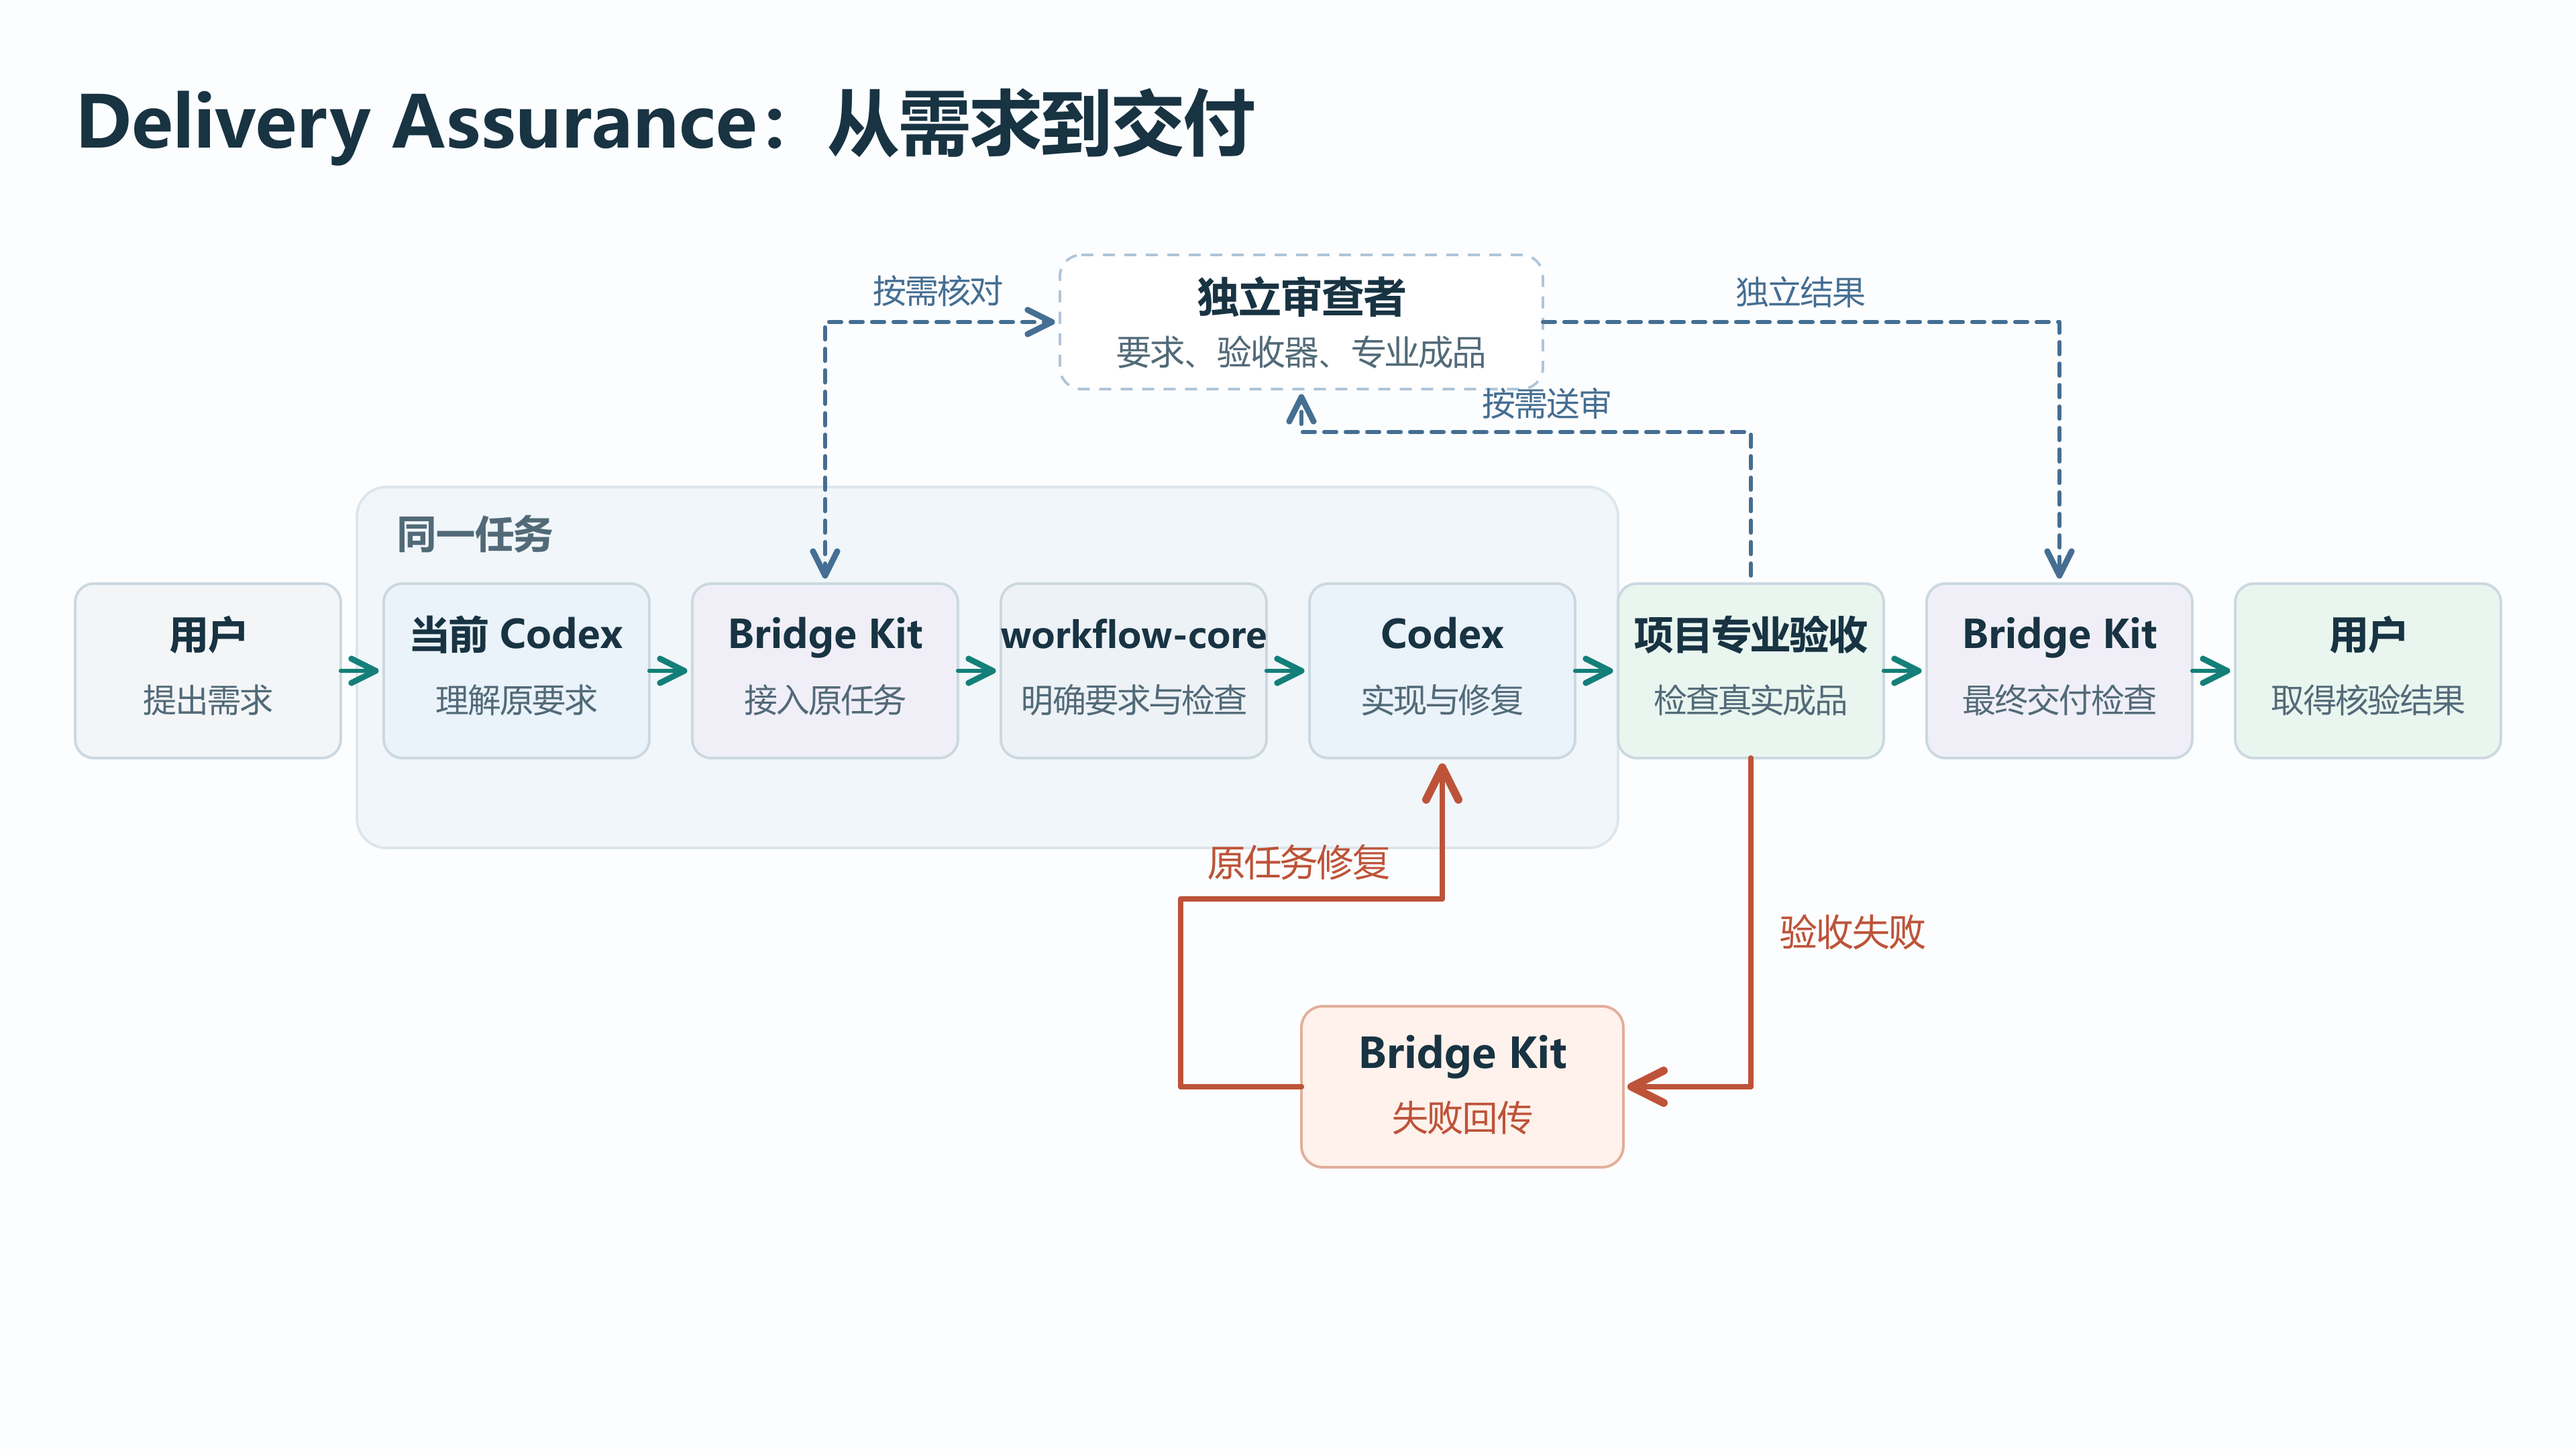
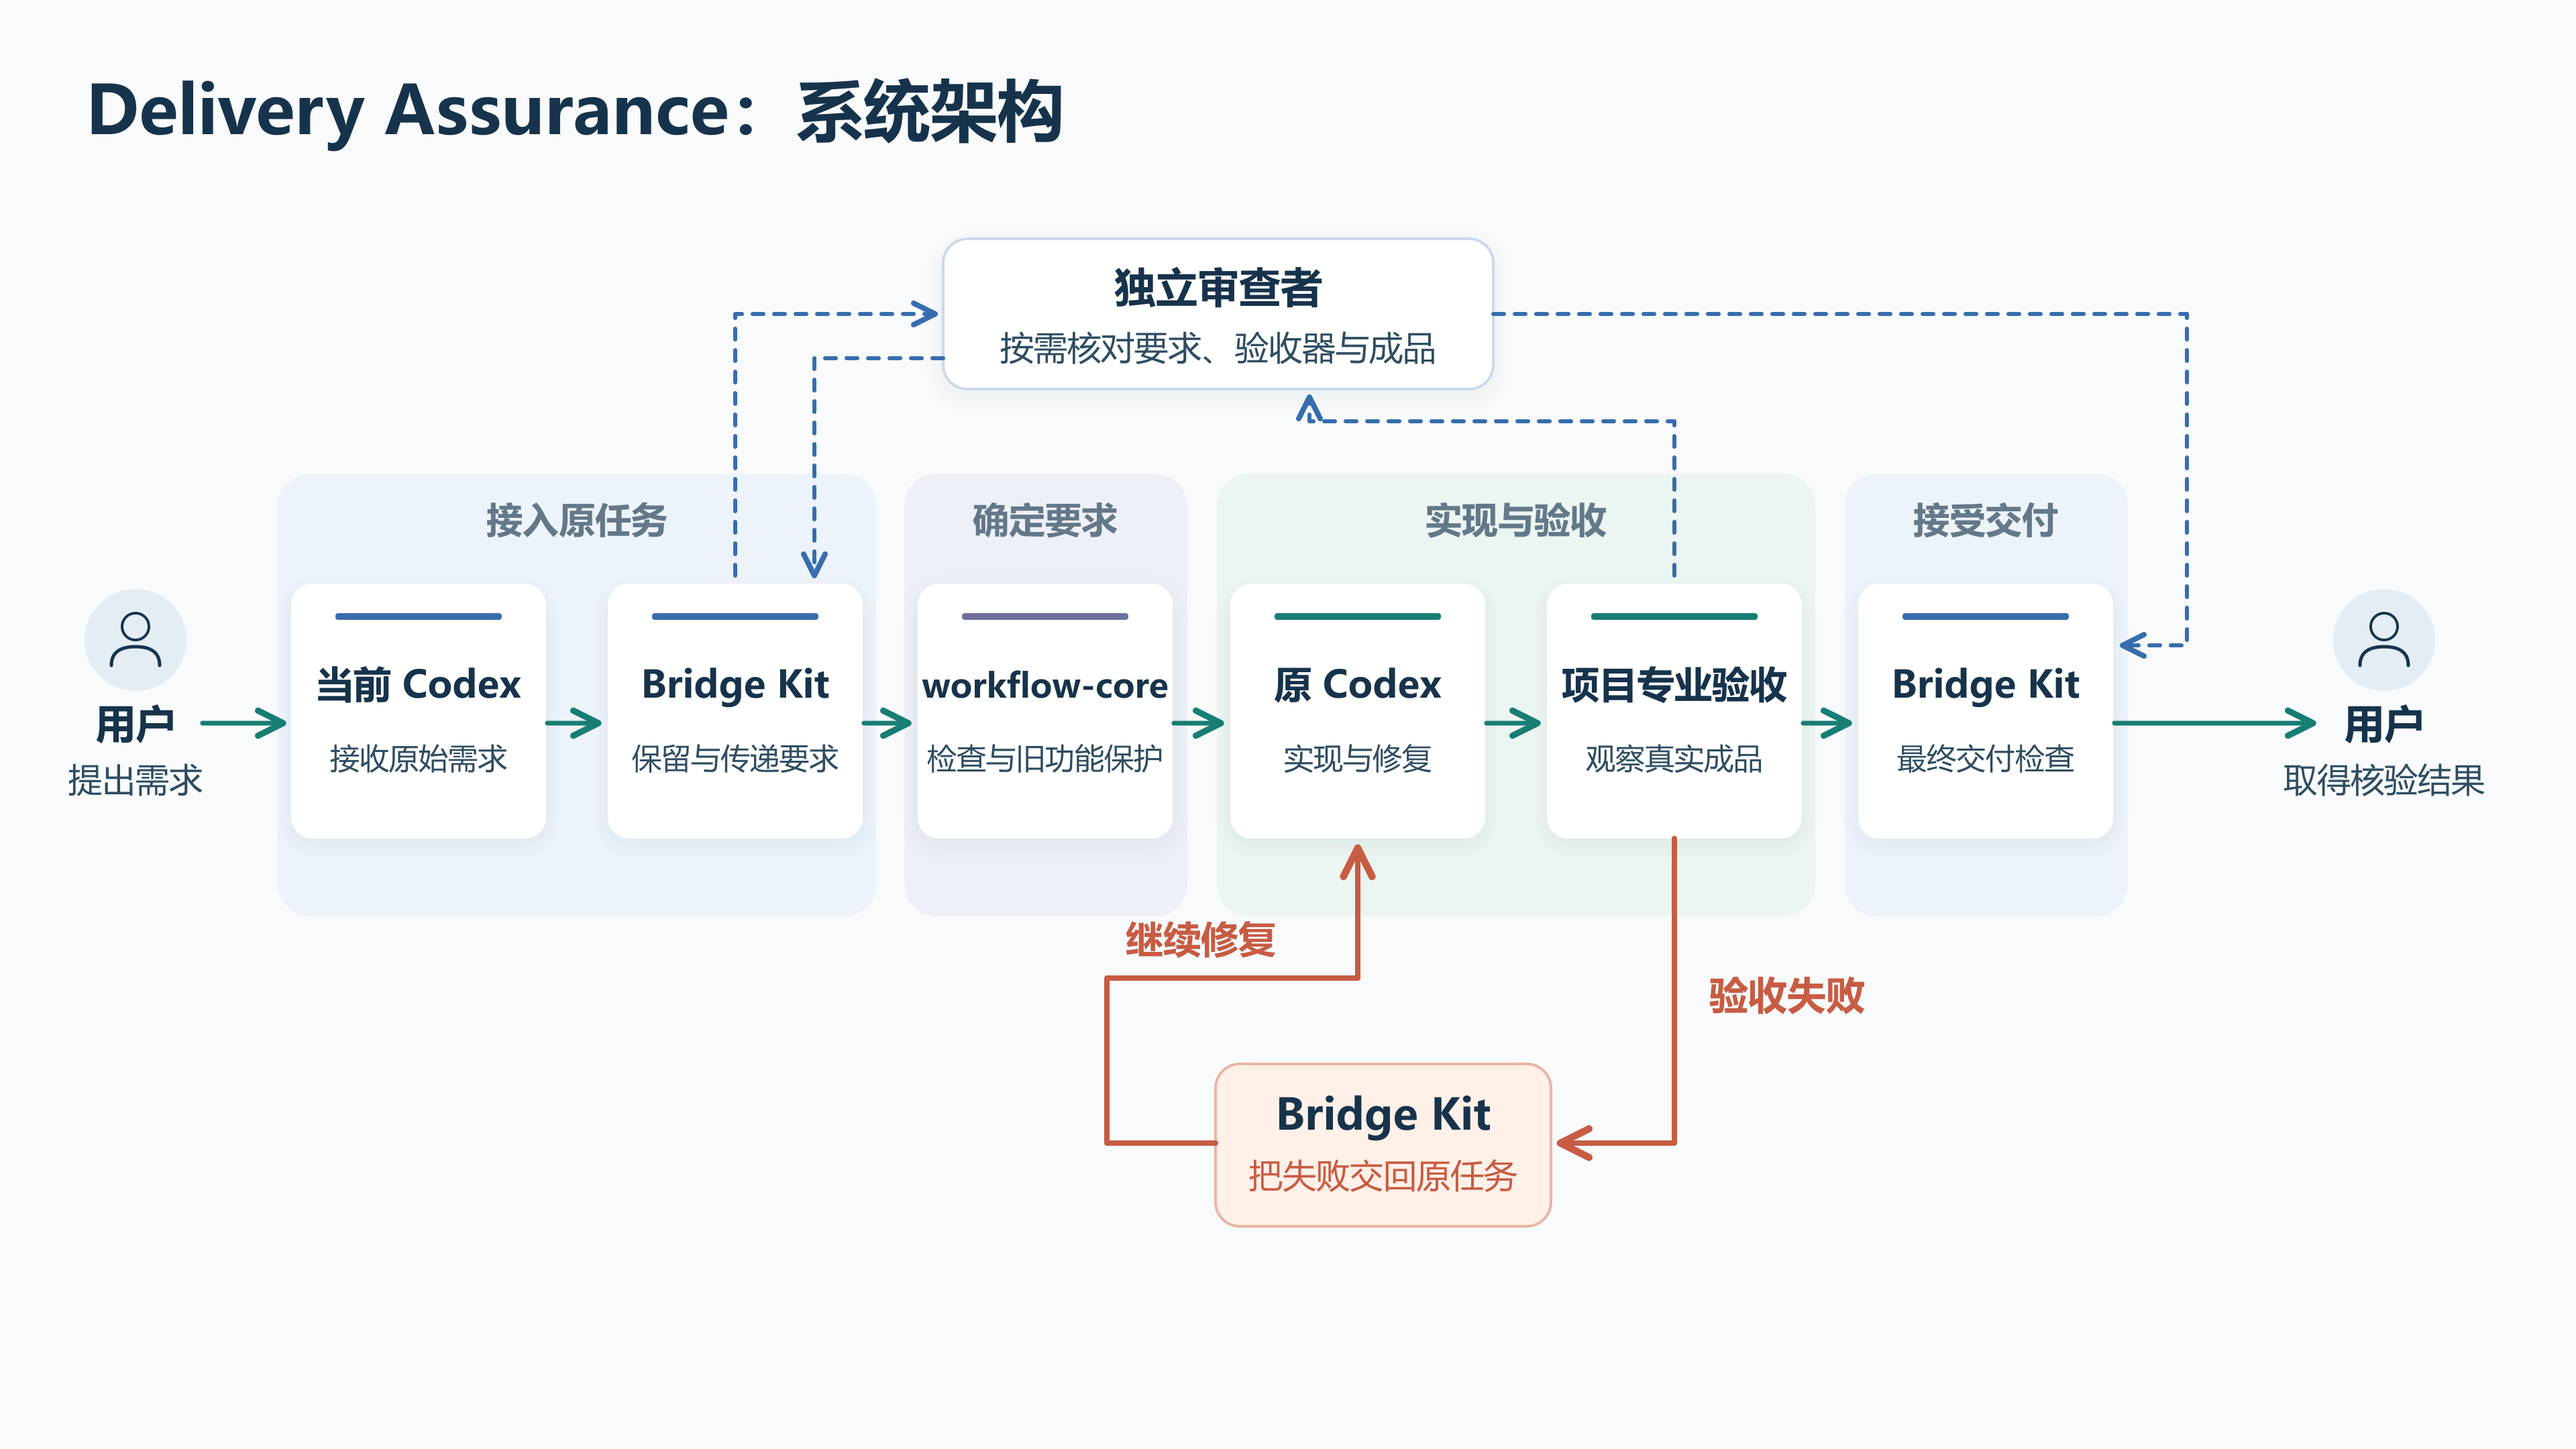
docs: improve Delivery Assurance diagram hierarchy and reading flow

diff --git a/docs/research/software-production/22_DELIVERY_ASSURANCE_GLOBAL_WORK_RESEARCH_20261022/WORK_OUTPUT/CURRENT.md b/docs/research/software-production/22_DELIVERY_ASSURANCE_GLOBAL_WORK_RESEARCH_20261022/WORK_OUTPUT/CURRENT.md
@@ -19,7 +19,7 @@ ALL_SEVEN_DA_ENABLED=NO
 
 ## 本次修改
 
-按用户最新要求彻底重排两图，同一目录、同一方案，不启动新审查。
+按用户最新要求彻底重排两图，并针对阅读费力的问题重做视觉层次。架构主链分为四个职责区，用户以人物节点呈现；执行图用六条完整泳道、统一行距和独立失败区区分角色与消息。仍在同一目录、同一方案，不启动新审查。
 
 - 架构图沿“用户→当前 Codex→Bridge Kit→workflow-core→Codex 实现→项目专业验收→Bridge Kit 最终检查→用户”展开，独立审查置于侧面按需调用；失败经 Bridge Kit 返回原 Codex。重复名称是同一组件在不同阶段的职责，不表示新增服务或任务。
 - Lucerna 执行图改为六条泳道：用户、Codex、Bridge Kit、workflow-core、Lucerna 专业验收、独立审查者。时间从上向下，消息跨角色传递，包含直接通过及故障被显示成正常后的原任务返修。
@@ -28,7 +28,7 @@ ALL_SEVEN_DA_ENABLED=NO
 
 ## 图形检查与发布核验
 
-SVG 为可编辑的 1920 × 1080 矢量图源，PNG 实际渲染为 3840 × 2160。已打开两图完整画面和 960 × 540 缩小预览，检查中文、六个角色、箭头方向、主链、失败回原任务、文字与连线间距；修正了泳道中两处标签拥挤。
+SVG 为可编辑的 1920 × 1080 矢量图源，PNG 实际渲染为 3840 × 2160。已打开两图完整画面和 960 × 540 缩小预览，检查中文、六个角色、箭头方向、主链、失败回原任务、文字与连线间距；修正了标签拥挤以及独立审查回传线穿过分组标题的问题。
 
 发布核验要求：以同一固定提交回读六份文本与图源，逐字比对；两张 PNG 由公开只读地址回读，与已检查成品逐字节比对。核验完成前不得声称已交付。修改只限原 WORK_OUTPUT 的八份图示、说明和索引文件。
 
